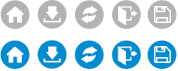
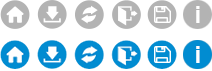
修改icon

diff --git a/survey.html b/survey.html
@@ -36,6 +36,7 @@
                         <a class="share-a icon-2" href="#" id="save" title="Save"></a>
                         <a class="share-a icon-3" href="#" id="reset" title="Reset" onclick="showConfirmResetDialog();"></a>
                         <a class="share-a icon-4" href="#" id="logout" title="Log out"></a>
+                         <a class="share-a icon-5" href="#" id="help" title="Help"></a>
                     </div>
                 </div>
             </div>

diff --git a/assert/css/survey.css b/assert/css/survey.css
@@ -53,6 +53,12 @@
 .icon-4:hover{
     background-position: -110px -40px;
 }
+.icon-5{
+    background-position: -182px 0;
+}
+.icon-5:hover{
+     background-position: -182px -40px;
+}
 .survey-intro{
     position: relative;
     width: 85%;
